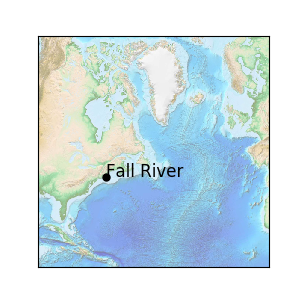
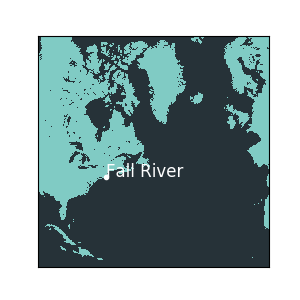
reploted maps

diff --git a/app/main.py b/app/main.py
@@ -1,4 +1,6 @@
-from PyQt5.QtWidgets import QApplication, QMainWindow
+from PyQt5.QtWidgets import QApplication, QMainWindow, QSplashScreen
+from PyQt5.QtGui import QPixmap
+from PyQt5.QtCore import Qt
 import loginwindow as lw
 import mainwindow as mw
 import vesselwindow as vw
@@ -9,7 +11,13 @@ from ut import *
 
 class MainWindow(QMainWindow):
     def __init__(self, parent=None):
+        splash_pix = QPixmap('images/icon.png')
+        self.splash = QSplashScreen(splash_pix, Qt.WindowStaysOnTopHint)
+        self.splash.setMask(splash_pix.mask())
+        self.splash.show()
+        app.processEvents()
         super(MainWindow, self).__init__(parent)
+
         self.uiLogin = lw.LoginWindow()
         self.uiMain = mw.MainWindow()
         self.uiVessel = vw.VesselWindow()
@@ -28,16 +36,22 @@ class MainWindow(QMainWindow):
         self.uiPort.setupUi(self, auth, name, img)
         self.uiPort.backPB.clicked.connect(self.gotoMain)
         self.show()
+        self.splash.finish(self)
+        app.exec_()
 
     def startVessel(self, auth, name):
         self.uiVessel.setupUi(self, auth, name)
         self.uiVessel.backPB.clicked.connect(self.gotoMain)
         self.show()
+        self.splash.finish(self)
+        app.exec_()
 
     def startLogin(self):
         self.uiLogin.setupUi(self)
         self.uiLogin.okPB.clicked.connect(self.checkLogin)
         self.show()
+        self.splash.finish(self)
+        app.exec_()
 
     def checkLogin(self):
         # from time import sleep
@@ -55,6 +69,8 @@ class MainWindow(QMainWindow):
             self.uiLogin.pwdLE.setStyleSheet("border-bottom: 2px solid #D72638;")
 
     def checkPort(self):
+        self.splash.show()
+        app.processEvents()
         p_name = self.uiMain.ports_line_edit.text()
         if p_name not in self.uiMain.port_list:
             self.uiMain.ports_line_edit.setStyleSheet("border-bottom: 2px solid #D72638;")
@@ -64,6 +80,8 @@ class MainWindow(QMainWindow):
             self.startPort(auth=(self.login, self.pwd), name=self.uiMain.ports_line_edit.text(), img=point_map)
 
     def checkVessel(self):
+        self.splash.show()
+        app.processEvents()
         p_name = self.uiMain.ships_line_edit.text()
         print('Ship name: ' + self.uiMain.ships_line_edit.text())
         if p_name not in self.uiMain.ship_list:

diff --git a/app/ut.py b/app/ut.py
@@ -163,9 +163,9 @@ def get_port_info(auth, name):
         cp        = db.piers.count_documents({"port_id": port["_id"], "pier_type": container})
 
         pier_str = \
-            "bulk:      x" + str(bp) + "\n" + \
-            "liquid:    x" + str(lp) + "\n" + \
-            "container: x" + str(cp)
+            "Bulk x" + str(bp) + "\n" + \
+            "Liquid x" + str(lp) + "\n" + \
+            "Container x" + str(cp)
         return pier_str
 
     def form_ship_count():
@@ -266,15 +266,22 @@ def plot_map(auth=("admin", "admin"), port_name="Alicante"):
         lat_0=(180 + lat + 10 * lat / abs(lat)) % 360 - 180,
         lon_0=(180 + lon + 20 * lat / abs(lat)) % 360 - 180,
     )
-    m.etopo(scale=0.5, alpha=0.5)
+    # m.etopo(scale=0.5, alpha=0.5)
+    # m.drawlsmask(land_color='#80CBC4', ocean_color='#546E7A', lakes=True)
+    m.drawlsmask(land_color='#80CBC4', ocean_color='#263238', lakes=True)
 
     # Map (long, lat) to (x, y) for plotting
     x, y = m(lon, lat)
-    plt.plot(x, y, 'ok', markersize=5)
-    plt.text(x, y, port_name, fontsize=12)
+    plt.plot(x, y, 'ok', markersize=3, color="#FFFFFF")
+    plt.text(x + 5, y + 5, port_name, fontsize=12, color="#FFFFFF")
 
     # plt.show()
-    plt.savefig(filename)
+    plt.savefig(
+        filename,
+        transparent=True,
+        frameon=False,
+    )
+    plt.close()
     return filename
 
 

diff --git a/app/portwindow.py b/app/portwindow.py
@@ -721,7 +721,7 @@ class PortWindow(object):
         header.setSectionResizeMode(2, QtWidgets.QHeaderView.ResizeToContents)
         header.setSectionResizeMode(3, QtWidgets.QHeaderView.ResizeToContents)
 
-        self.journal_table.setHorizontalHeaderLabels(["Date", "Ship", "Cargo amount", "Job"])
+        self.journal_table.setHorizontalHeaderLabels(["Date", "Ship", "Cargo Amount", "Job"])
 
         prev_ships = set([])
 
